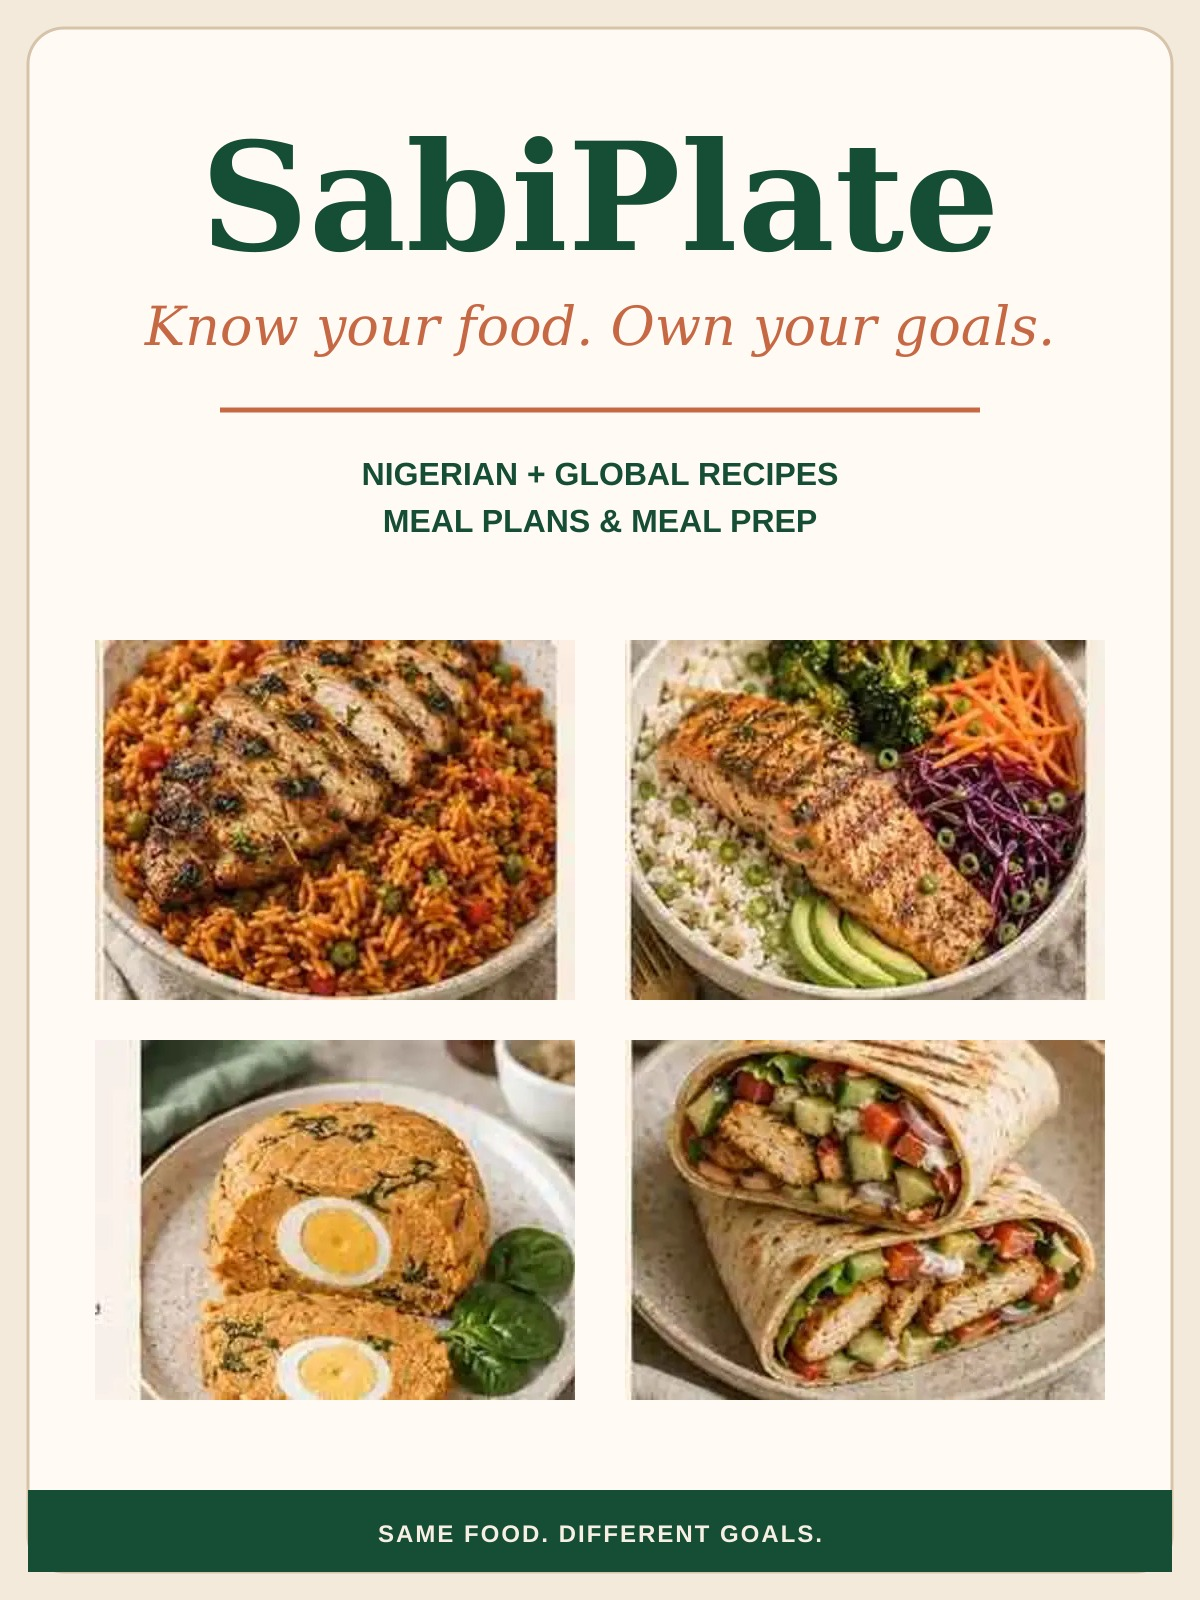
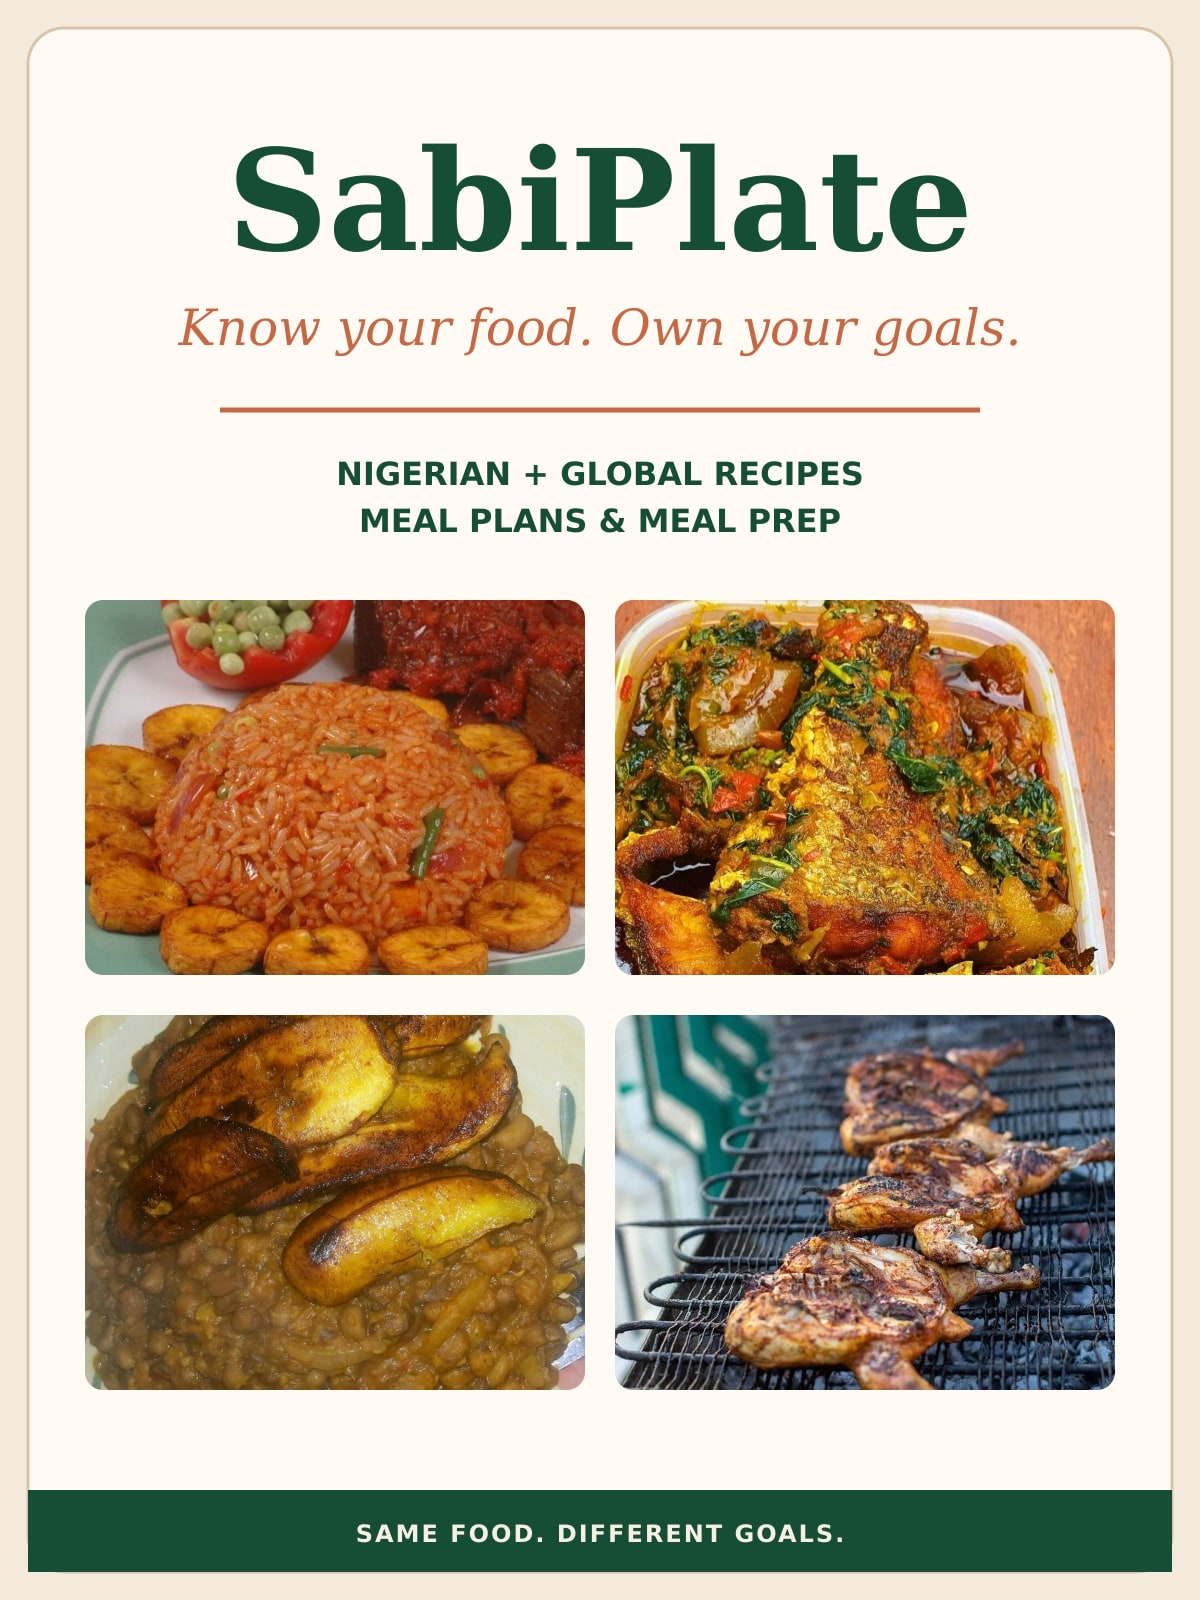
Rebuild hero and cookbook cover from real photos at higher resolution; remove focus frame
Claude-Session: https://claude.ai/code/session_018LDTmRfYgpP2Wm8mSHfFpF

diff --git a/site/index.html b/site/index.html
@@ -490,7 +490,7 @@ main{max-width:1320px;margin:0 auto}.view{display:none;padding:24px}.view.active
   function renderHome(){
     const el=$('#view-home');ensureGenerated();const g=state.generatedDay;const target=+state.profile.target||1750;const fav=recipes.filter(r=>state.favourites.has(r.id)).slice(0,4);const featured=fav.length?fav:recipes.slice(0,4);
     const nigerian=recipes.filter(r=>/nigerian/i.test(r.cuisine+' '+r.tags.join(' '))).slice(0,3);const high=recipes.filter(r=>r.protein>=38).sort((a,b)=>b.protein-a.protein).slice(0,3);const quick=recipes.filter(r=>r.prep<=20).sort((a,b)=>a.prep-b.prep).slice(0,3);
-    el.innerHTML=`<section class="hero"><div class="hero-copy"><span class="eyebrow">Nigerian + global food • smarter planning</span><h1 id="homeHeading">Know your food.<em>Own your goals.</em></h1><p>Plan satisfying meals around your goals without giving up the food you actually enjoy.</p><div class="hero-actions"><button type="button" class="primary-btn" data-home-action="build">Build my day</button><button type="button" class="secondary-btn" data-nav-local="recipes">Browse recipes</button></div></div><div class="hero-visual" style="background-image:url('${esc('./assets/hero-wide.jpg?v=20261117-r1')}')"></div></section>
+    el.innerHTML=`<section class="hero"><div class="hero-copy"><span class="eyebrow">Nigerian + global food • smarter planning</span><h1 id="homeHeading">Know your food.<em>Own your goals.</em></h1><p>Plan satisfying meals around your goals without giving up the food you actually enjoy.</p><div class="hero-actions"><button type="button" class="primary-btn" data-home-action="build">Build my day</button><button type="button" class="secondary-btn" data-nav-local="recipes">Browse recipes</button></div></div><div class="hero-visual" style="background-image:url('${esc('./assets/hero-wide.jpg?v=r7')}')"></div></section>
       <div class="stats-grid"><div class="stat-card"><strong>${recipes.length}</strong><span>recipes</span></div><div class="stat-card"><strong>${target}</strong><span>daily kcal target</span></div><div class="stat-card"><strong>${state.favourites.size}</strong><span>favourites</span></div><div class="stat-card"><strong>${planCount()}</strong><span>planned meals</span></div></div>
       <section class="section"><div class="section-head"><div><span class="eyebrow">Choose a moment</span><h2>What are we eating today?</h2></div></div><div class="category-grid">${homeCategory('Breakfast','Power Breakfasts')}${homeCategory('Lunch','Power Lunches')}${homeCategory('Dinner','Power Dinners')}${homeCategory('Snack','Power Snacks')}</div></section>
       <section class="section quick-builder" id="builder"><div><span class="eyebrow">Build My Day</span><h3>Plan around your target</h3><p class="muted">Choose a calorie target, lock meals you like and regenerate or swap the rest. This is a planning aid, not medical advice.</p><div class="target-pills">${[1400,1500,1750,1800,2000].map(x=>`<button type="button" data-target="${x}" class="${target===x?'active':''}">${x} kcal</button>`).join('')}</div><div class="custom-target"><input id="customTarget" type="number" min="1000" max="4000" step="50" value="${target}" aria-label="Custom calorie target"><button type="button" class="ghost-btn" id="applyTarget">Use target</button></div><button type="button" class="primary-btn" id="regenerateDay">Regenerate unlocked meals</button></div>
@@ -612,7 +612,7 @@ main{max-width:1320px;margin:0 auto}.view{display:none;padding:24px}.view.active
   }
   function renderFridgeResults(){const input=$('#fridgeInput')?.value||state.fridgeInput;state.fridgeInput=input;save();const m=fridgeMatches(input);const out=$('#fridgeResults');if(!out)return;out.innerHTML=m.length?m.map(x=>`<div class="match"><span><b>${esc(x.r.title)}</b><small class="muted">Matches ${x.matched.length} • ${x.missing.length} meaningful ingredient${x.missing.length===1?'':'s'} missing</small><small>${x.matched.length?'Have: '+esc(x.matched.slice(0,4).join(', ')):''}</small></span><div class="match-actions"><button type="button" class="ghost-btn" data-fridge-open="${x.r.id}">View</button>${x.missing.length?`<button type="button" class="ghost-btn" data-add-missing="${x.r.id}">Add missing</button>`:''}</div></div>`).join(''):'<p class="muted">No close matches yet. Try broader ingredient names such as chicken, rice, spinach or beans.</p>';$$('[data-fridge-open]',out).forEach(b=>b.onclick=()=>openRecipe(b.dataset.fridgeOpen));$$('[data-add-missing]',out).forEach(b=>b.onclick=()=>{const match=m.find(x=>x.r.id===b.dataset.addMissing);match?.missing.forEach(t=>{if(!state.customShop.some(x=>x.text.toLowerCase()===t.toLowerCase()))addCustomShop(titleCase(t))});save();toast('Missing ingredients added to shopping list')})}
 
-  function renderCookbook(){const el=$('#view-cookbook');const cols=[['Power Breakfasts',r=>r.category==='Breakfast'],['Power Lunches',r=>r.category==='Lunch'],['Power Dinners',r=>r.category==='Dinner'],['Power Snacks',r=>r.category==='Snack'],['Nigerian favourites',r=>/Nigerian/.test(r.cuisine)]];el.innerHTML=`<div class="page-head"><div><span class="eyebrow">Cookbook</span><h1>The SabiPlate cookbook</h1><p>${recipes.length} recipes with gram weights, method and nutrition. Open any recipe to print it or save it as a PDF.</p></div></div><div class="cookbook-layout"><div><img class="book-cover" src="./assets/cookbook-cover.jpg?v=20261117-r1" alt="SabiPlate cookbook cover"></div><div>${cols.map(([name,test])=>{const list=recipes.filter(test);return `<h2 style="font-family:Georgia,serif;color:var(--green);margin:18px 0 8px">${name} <small class="muted" style="font-size:13px;font-family:inherit">${list.length} recipes</small></h2><div class="feature-list">${list.map(r=>`<button type="button" class="feature" data-open="${esc(r.id)}" style="text-align:left;cursor:pointer;font:inherit;width:100%"><b>${esc(r.title)}</b><span>${r.calories} kcal · ${r.protein}g protein · ${r.prep} min</span></button>`).join('')}</div>`}).join('')}<div class="nutrition-note">Calories and macros are estimates worked out from standard ingredient weights. <a href=\"./credits.html\">Photo credits</a></div></div></div>`;el.querySelectorAll('[data-open]').forEach(b=>b.onclick=()=>openRecipe(b.dataset.open))}
+  function renderCookbook(){const el=$('#view-cookbook');const cols=[['Power Breakfasts',r=>r.category==='Breakfast'],['Power Lunches',r=>r.category==='Lunch'],['Power Dinners',r=>r.category==='Dinner'],['Power Snacks',r=>r.category==='Snack'],['Nigerian favourites',r=>/Nigerian/.test(r.cuisine)]];el.innerHTML=`<div class="page-head"><div><span class="eyebrow">Cookbook</span><h1>The SabiPlate cookbook</h1><p>${recipes.length} recipes with gram weights, method and nutrition. Open any recipe to print it or save it as a PDF.</p></div></div><div class="cookbook-layout"><div><img class="book-cover" src="./assets/cookbook-cover.jpg?v=r7" alt="SabiPlate cookbook cover"></div><div>${cols.map(([name,test])=>{const list=recipes.filter(test);return `<h2 style="font-family:Georgia,serif;color:var(--green);margin:18px 0 8px">${name} <small class="muted" style="font-size:13px;font-family:inherit">${list.length} recipes</small></h2><div class="feature-list">${list.map(r=>`<button type="button" class="feature" data-open="${esc(r.id)}" style="text-align:left;cursor:pointer;font:inherit;width:100%"><b>${esc(r.title)}</b><span>${r.calories} kcal · ${r.protein}g protein · ${r.prep} min</span></button>`).join('')}</div>`}).join('')}<div class="nutrition-note">Calories and macros are estimates worked out from standard ingredient weights. <a href=\"./credits.html\">Photo credits</a></div></div></div>`;el.querySelectorAll('[data-open]').forEach(b=>b.onclick=()=>openRecipe(b.dataset.open))}
 
   function renderProfile(){const el=$('#view-profile');const favs=recipes.filter(r=>state.favourites.has(r.id));const cloudUser=window.SABI_CLOUD?.user;el.innerHTML=`<div class="page-head"><div><span class="eyebrow">Your profile</span><h1>Goals and preferences</h1><p>Keep onboarding short now. More detailed profile information can stay optional later.</p></div></div><div class="profile-grid"><div class="panel"><div class="profile-card"><div class="big-avatar">${esc((state.profile.name||'M')[0].toUpperCase())}</div><div><h2 style="margin:0;font-family:Georgia,serif;color:var(--green)">${esc(state.profile.name||'Member')}</h2><p class="muted" style="margin:5px 0">${esc(state.profile.goal)}</p></div></div><hr style="border:0;border-top:1px solid var(--line);margin:20px 0"><div class="form-grid"><div class="form-field"><label for="profileName">First name / display name</label><input id="profileName" value="${esc(state.profile.name)}"></div><div class="form-field"><label for="profileTarget">Daily calorie target</label><input id="profileTarget" type="number" min="1000" max="4000" step="50" value="${+state.profile.target||1750}"></div><div class="form-field"><label for="profileGoal">Main goal</label><select id="profileGoal">${['Lose weight steadily','Maintain weight','Build muscle','Eat better'].map(x=>`<option ${state.profile.goal===x?'selected':''}>${x}</option>`).join('')}</select></div><div class="form-field"><label for="profileDiet">Food preference</label><select id="profileDiet">${['Everything','Nigerian-first','Higher protein','Plant-forward'].map(x=>`<option ${state.profile.diet===x?'selected':''}>${x}</option>`).join('')}</select></div><div class="form-field"><label for="profileMeals">Meals per day</label><select id="profileMeals">${[3,4,5].map(x=>`<option value="${x}" ${+state.profile.mealsPerDay===x?'selected':''}>${x}</option>`).join('')}</select></div></div><div class="form-field"><label>Preferred cuisines</label><div class="choice-row">${['Nigerian','Global'].map(x=>`<label class="choice-chip"><input type="checkbox" data-cuisine-pref="${x}" ${(state.profile.cuisines||[]).includes(x)?'checked':''}> ${x}</label>`).join('')}</div></div><button type="button" class="primary-btn" id="saveProfile">Save preferences</button><div class="account-note">${cloudUser?'<b>Cloud sync active:</b> your preferences, favourites, plans and shopping progress save automatically.':'<b>Guest mode:</b> this device is saving your progress locally. Create a free account to sync it securely across devices.'}</div></div><aside class="panel"><h3 class="sidebar-title">Your activity</h3><p><b>${state.favourites.size}</b> favourites</p><p><b>${planCount()}</b> planned meals</p><p><b>${state.profile.target}</b> kcal target</p><button type="button" class="auth-primary" data-auth-profile-action style="margin:2px 0 12px">${cloudUser?'Manage account & sync':'Create free account'}</button><button type="button" class="danger-btn" id="resetApp">Reset SabiPlate data</button></aside></div>${favs.length?`<section class="section"><div class="section-head"><h2>Favourite recipes</h2></div><div class="recipe-grid">${favs.slice(0,8).map(recipeCard).join('')}</div></section>`:''}`;
     bindRecipeActions(el);$('#saveProfile').onclick=()=>{state.profile.name=$('#profileName').value.trim()||'Member';state.profile.target=Math.max(1000,Math.min(4000,+$('#profileTarget').value||1750));state.profile.goal=$('#profileGoal').value;state.profile.diet=$('#profileDiet').value;state.profile.mealsPerDay=+$('#profileMeals').value;state.profile.cuisines=$$('[data-cuisine-pref]:checked',el).map(x=>x.dataset.cuisinePref);state.generatedDay=null;state.builderLocks.clear();save();$('#avatarBtn').textContent=state.profile.name[0].toUpperCase();toast('Preferences saved');renderProfile()};$('#resetApp').onclick=()=>{if(confirm('Reset your SabiPlate data on this device?')){store.clear();location.reload()}}
@@ -646,7 +646,7 @@ main{max-width:1320px;margin:0 auto}.view{display:none;padding:24px}.view.active
 @media(max-width:360px){.v15-plates{grid-template-columns:1fr}.v15-summary,.v15-cost-grid{grid-template-columns:1fr 1fr}.v15-gallery button{min-width:88%}}
 </style>
 
-<link rel="stylesheet" href="./assets/plan.css?v=r6">
+<link rel="stylesheet" href="./assets/plan.css?v=r7">
 <script src="./assets/photo-credits.js?v=r5"></script>
 <script src="./assets/plan-data.js?v=20261117-r2" defer></script>
 <script src="./assets/my-recipes.js?v=r6" defer></script>

diff --git a/site/assets/plan.css b/site/assets/plan.css
@@ -97,3 +97,4 @@
   .mr-photo{grid-template-columns:100px 1fr}
   .mr-photo img{width:100px;height:75px}
 }
+#mainContent:focus,#mainContent:focus-visible{outline:none}
